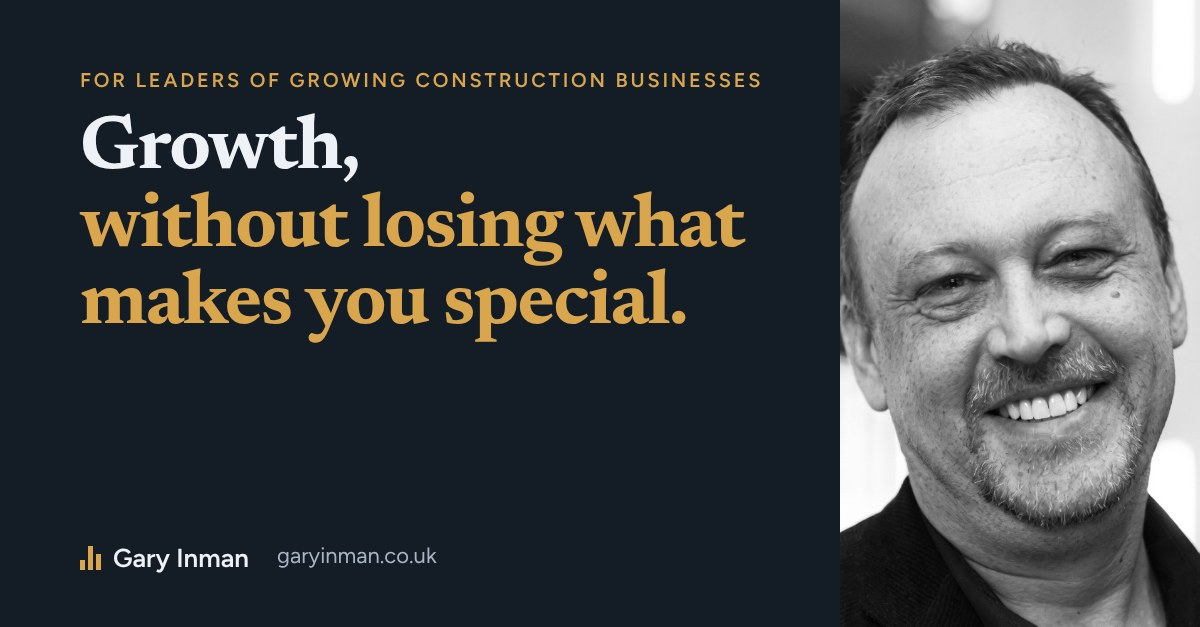
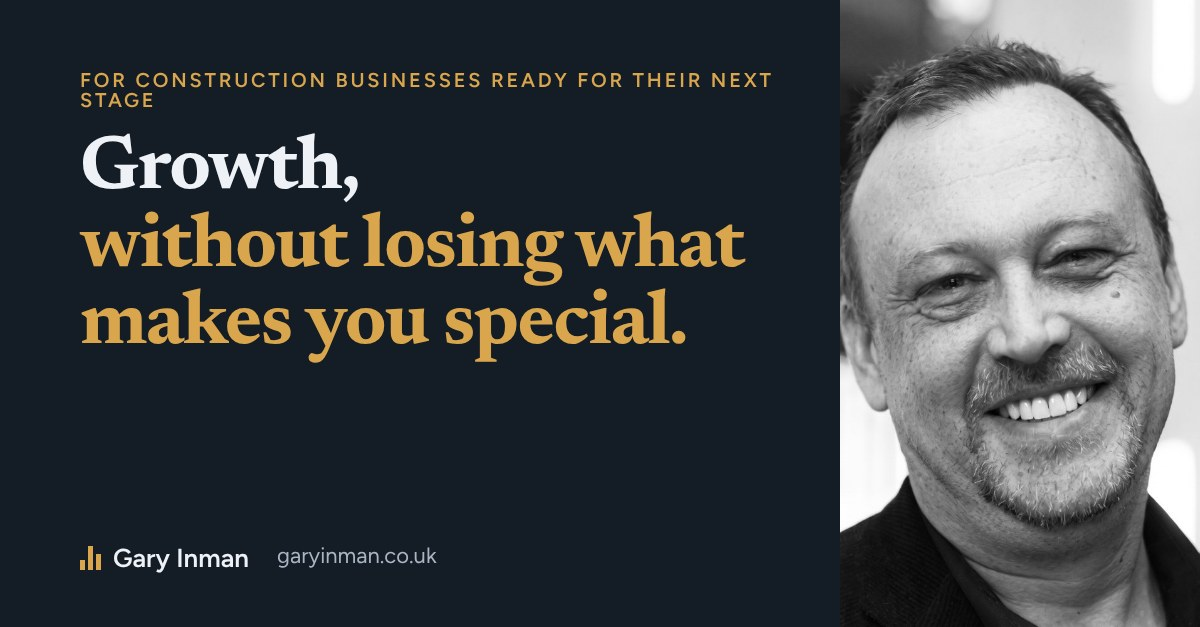
Reframe for businesses at a turning point; lean-centre insight; contractors not SMEs

Changed region(s): [[0.0617, 0.0909, 0.6475, 0.5758]]

diff --git a/index.html b/index.html
@@ -4,14 +4,14 @@
 <meta property="og:type" content="website">
 <meta property="og:site_name" content="Gary Inman">
 <meta property="og:title" content="Gary Inman | Growth, without losing what makes you special">
-<meta property="og:description" content="I work alongside owners and leadership teams of growing construction businesses to see what comes next, make good decisions and make change stick.">
+<meta property="og:description" content="I work alongside owners and leadership teams of construction businesses ready for their next stage, to see what comes next, make good decisions and make change stick.">
 <meta property="og:url" content="https://garyinman.co.uk/">
 <meta property="og:image" content="https://garyinman.co.uk/img/share.jpg">
 <meta property="og:image:width" content="1200">
 <meta property="og:image:height" content="627">
 <meta name="twitter:card" content="summary_large_image">
 <meta name="claude:viewport-fit-sides" content="cover">
-<meta name="description" content="I work alongside owners and leadership teams of growing construction businesses to see what comes next, make good decisions and make change stick.">
+<meta name="description" content="I work alongside owners and leadership teams of construction businesses ready for their next stage, to see what comes next, make good decisions and make change stick.">
 <link rel="preconnect" href="https://fonts.googleapis.com">
 <link rel="preconnect" href="https://fonts.gstatic.com" crossorigin>
 <link rel="stylesheet" href="https://fonts.googleapis.com/css2?family=Newsreader:opsz,wght@6..72,500;6..72,600;6..72,700&family=Figtree:ital,wght@0,400;0,500;0,600;1,400&display=swap">
@@ -179,6 +179,9 @@ a{color:inherit}
 .skills p{color:var(--muted);max-width:56ch}
 .xp{display:flex;flex-direction:column;gap:14px;margin-top:8px;padding-top:4px}
 .xp p{color:var(--muted);font-size:16px;margin:0;padding:0}
+.lean{display:flex;flex-direction:column;gap:8px;padding:4px 0 6px 18px;border-left:3px solid var(--brass)}
+.lean h3{font-size:clamp(22px,2.2vw,26px);font-weight:600;letter-spacing:-.01em}
+.lean p{color:var(--ink);font-size:17px;margin:0;max-width:60ch}
 .con-grid{display:grid;grid-template-columns:repeat(2,minmax(0,1fr));gap:14px}
 .con-grid div{background:var(--surface);border:1px solid var(--line);border-top:3px solid var(--brass);border-radius:8px;padding:20px 22px;display:flex;flex-direction:column;gap:6px}
 .con-grid h3{font-size:19px;font-weight:600;letter-spacing:-.01em}
@@ -437,9 +440,9 @@ footer .wrap{display:flex;flex-wrap:wrap;justify-content:space-between;gap:12px;
   <section class="stage hero" aria-labelledby="hero-title">
     <div class="wrap">
       <div>
-        <div class="eyebrow">For leaders of growing construction businesses</div>
+        <div class="eyebrow">For construction businesses ready for their next stage</div>
         <h1 id="hero-title">Growth,<br><em>without losing what makes you special.</em></h1>
-        <p class="lede">As a construction business grows, it needs more from its leaders. I help owners and their teams see what comes next, make good decisions, and make change stick, on site and in the office.</p>
+        <p class="lede">As a construction business grows, the centre rarely keeps pace with the site. I help owners and leadership teams see what comes next, make good decisions, and make change stick, on site and in the office.</p>
         <div class="cta">
           <a class="btn btn-gold" href="#contact">Start with a conversation</a>
           <a class="btn btn-ghost" href="#help">How I help</a>
@@ -475,7 +478,7 @@ footer .wrap{display:flex;flex-wrap:wrap;justify-content:space-between;gap:12px;
         <p>Part sounding board, part strategist, part hands-on support.</p>
         <div class="shape">
           <h3>Shaped around you</h3>
-          <p>An ongoing relationship works best, but there's no fixed formula. It might be one-to-one time, working alongside your team, or a fixed-term assignment with a clear end.</p>
+          <p>An ongoing relationship works best, but there's no fixed formula. It might be one-to-one time with an owner, working alongside a full leadership team, or a fixed-term assignment through a major change.</p>
         </div>
       </header>
       <div class="body">
@@ -501,14 +504,15 @@ footer .wrap{display:flex;flex-wrap:wrap;justify-content:space-between;gap:12px;
       <header>
         <div class="eyebrow">Construction</div>
         <h2 class="h2" id="con-title">I know how construction works.</h2>
-        <p>Growing a construction business means leading people with very different working lives, under constant commercial pressure.</p>
+        <p>Leading people with very different working lives, under constant commercial pressure.</p>
       </header>
       <div class="body">
+        <div class="lean"><h3>Big on site, lean at the centre.</h3><p>Construction businesses often run for years with central teams far smaller than their turnover and site footprint would suggest. People, ESG, bids, systems and reporting rest on a few shoulders, until growth, a bigger contract or a new requirement exposes the gap.</p></div>
         <div class="con-grid">
           <div><h3>Site and office</h3><p>Two cultures, often pulling different ways. Change has to work in both.</p></div>
           <div><h3>A mixed workforce</h3><p>Direct staff, subcontractors and labour-only teams, many first languages, apprentices to forty years on the tools.</p></div>
           <div><h3>Relationships carry the business</h3><p>Clients, main contractors, supply chain and long-serving people. Growth strains all of them.</p></div>
-          <div><h3>Founder-led firms</h3><p>What made the business succeed often lives in a few people. Growth means sharing it without losing it.</p></div>
+          <div><h3>Founder-led, or growing beyond the founders</h3><p>What made the business succeed often lives in a few people. Growth means sharing it without losing it.</p></div>
         </div>
         <div class="radar">
           <div class="sub-h">Keeping pace with what&rsquo;s changing</div>

diff --git a/esg.html b/esg.html
@@ -140,7 +140,7 @@ footer .wrap{display:flex;flex-wrap:wrap;justify-content:space-between;gap:12px;
     <div class="wrap">
       <div class="eyebrow">ESG for growing construction businesses</div>
       <h1 id="esg-title">ESG that marks you out, and pays its way.</h1>
-      <p class="lede">Practical sustainability, carbon and social value for growing construction businesses. Built into how you already work, carried by your own people, and strong enough to stand out when you bid, especially for the smaller contracts where most SMEs compete.</p>
+      <p class="lede">Practical sustainability, carbon and social value for growing construction businesses. Built into how you already work, carried by your own people, and strong enough to stand out when you bid, especially for the smaller contracts where most growing contractors compete.</p>
       <div class="cta"><a class="btn btn-gold" href="#contact">Talk about ESG</a><a class="btn btn-ghost" href="#help">What I help with</a></div>
     </div>
   </section>
@@ -167,12 +167,12 @@ footer .wrap{display:flex;flex-wrap:wrap;justify-content:space-between;gap:12px;
   <section class="section" id="help" aria-labelledby="help-title">
     <div class="wrap">
       <div class="eyebrow">What I help with</div>
-      <h2 class="h2" id="help-title" style="margin-top:14px;max-width:20ch">The parts of ESG that matter for an SME.</h2>
+      <h2 class="h2" id="help-title" style="margin-top:14px;max-width:20ch">The parts of ESG that matter for a growing contractor.</h2>
       <div class="offers four">
         <article class="offer"><h3>Carbon you can actually track</h3><p>A simple carbon tracking model that a small business can keep up to date, and a carbon reduction plan when buyers ask for one.</p></article>
         <article class="offer"><h3>Social value that scores</h3><p>Realistic commitments you can deliver and report on, rather than promises that look good on paper.</p></article>
         <article class="offer"><h3>Sustainable practice</h3><p>Better environmental and site practices, and support towards accreditations where they make commercial sense.</p></article>
-        <article class="offer"><h3>The people side</h3><p>Wellbeing, training and fair work: the "S" in ESG, and often where SMEs have the strongest story to tell.</p></article>
+        <article class="offer"><h3>The people side</h3><p>Wellbeing, training and fair work: the "S" in ESG, and often where growing contractors have the strongest story to tell.</p></article>
       </div>
     </div>
   </section>
@@ -185,7 +185,7 @@ footer .wrap{display:flex;flex-wrap:wrap;justify-content:space-between;gap:12px;
         <p style="color:var(--stage-muted)">Large contracts often come with formal ESG requirements. On smaller ones, under £5m, buyers still ask, and expect a sensible, proportionate answer.</p>
       </header>
       <div class="body">
-        <p style="color:var(--stage-ink);font-size:clamp(19px,1.7vw,22px);line-height:1.5;max-width:56ch">Many SMEs answer ESG and social value questions with generic statements. Clear, honest, evidenced answers stand out straight away.</p>
+        <p style="color:var(--stage-ink);font-size:clamp(19px,1.7vw,22px);line-height:1.5;max-width:56ch">Many contractors answer ESG and social value questions with generic statements. Clear, honest, evidenced answers stand out straight away.</p>
         <ul class="engine-list">
           <li>Answers grounded in what you actually do, with real examples</li>
           <li>Commitments sized to the contract, that you can deliver and report on</li>
